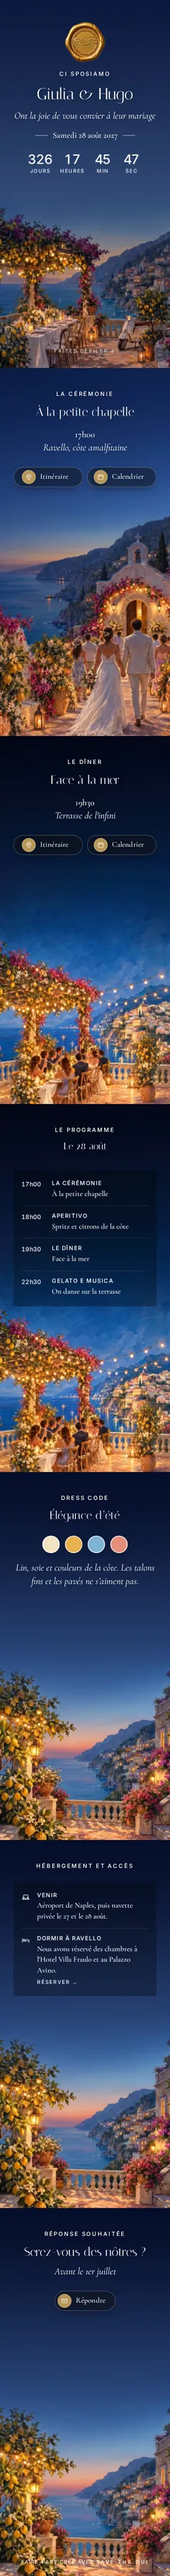
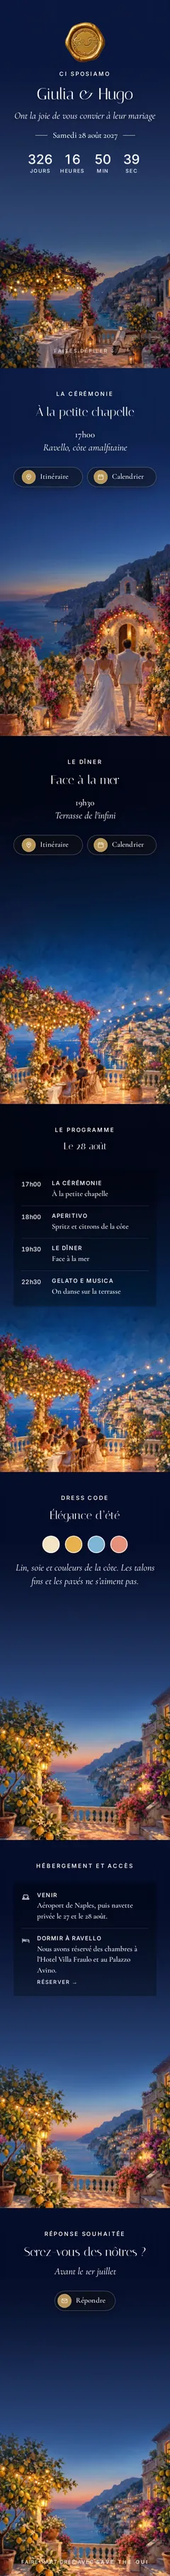
Peintures entières en pleine largeur posées en bas (plus de côtés coupés), trait de jonction supprimé, l'aperçu se pose exactement sur l'événement ; captures à jour
Claude-Session: https://claude.ai/code/session_01RtanwyKP89p6wkEb6pKcCE

diff --git a/business/landing/vitrine.js b/business/landing/vitrine.js
@@ -393,7 +393,11 @@
     if(on('gifts')) o.push(`${giftName().toLowerCase()} (${{liste:'liste chez nous',cagnotte:'cagnotte',lien:'liste ailleurs'}[d.gifts.mode]}) : ${d.gifts.text}${d.gifts.mode==='liste'?' · '+d.gifts.items.filter(x=>x.name).map(x=>x.name+(x.price?' '+x.price+' €':'')).join(', '):d.gifts.url?' '+d.gifts.url:''}`);
     return o.join(' ; '); };
   // l'aperçu descend jusqu'à l'écran modifié
-  function showEv(i){ const el=$('cpScroll').querySelector(`[data-ev="${i}"]`); if(el) $('cpScroll').scrollTo({top:el.offsetTop,behavior:'smooth'}); }
+  // l'aperçu va à l'écran de l'événement et s'y pose exactement : un défilement doux interrompu par un nouveau rendu
+  // s'arrêtait quelques pixels avant, et le « Faites défiler » de l'accueil restait en haut de l'écran
+  let evT=null;
+  function showEv(i){ const sc=$('cpScroll'), el=sc.querySelector(`[data-ev="${i}"]`); if(!el) return; sc.scrollTo({top:el.offsetTop,behavior:'smooth'});
+    clearTimeout(evT); evT=setTimeout(()=>{ const e2=sc.querySelector(`[data-ev="${i}"]`); if(e2&&Math.abs(sc.scrollTop-e2.offsetTop)>1) sc.scrollTo({top:e2.offsetTop,behavior:'smooth'}); },700); }
   const hm=v=>{ const m=/^(\d{1,2}):(\d{2})/.exec(v||''); return m?`${+m[1]}h${m[2]}`:''; };
   const cdHtml=(big,col,extra)=>`<div class="cd${big?' big':''}" style="color:${col};${extra||''}"><div><b data-u="d">0</b><span>jours</span></div><div><b data-u="h">0</b><span>heures</span></div><div><b data-u="m">0</b><span>min</span></div><div><b data-u="s">0</b><span>sec</span></div></div>`;
   function weddingDate(){ const v=$('cDate').value; const d=v?new Date(v+'T15:00:00'):null; return d&&!isNaN(d)?d:new Date('2027-06-12T15:00:00'); }
@@ -418,7 +422,8 @@
       if(cal){ B.style.webkitMaskImage=B.style.maskImage=''; return; }
       B.style.webkitMaskImage=B.style.maskImage='';
       // taille de l'écran, pas du cadre agrandi (sinon zoom ~1,8×) : même calcul que fitBg() dans invite.js
-      const bw=Math.ceil(Math.max(sc.clientWidth,h*.566)), y=Math.round((h-bw/.566)/2);
+      // toute la largeur, posée en bas, le haut rempli par le ciel étiré : comme fitBg() (rien de coupé sur les côtés)
+      const bw=Math.ceil(sc.clientWidth), y=Math.round(h-bw/.566);
       B.style.backgroundSize=bw+'px auto'; B.style.backgroundPosition=`center ${y}px`; B.style.setProperty('--bs',`${bw}px ${Math.round(Math.max(1,y)/.015)}px`); B.style.setProperty('--strip',Math.max(0,y)+'px'); });
     cpFade();
   }

diff --git a/business/site/vitrine.js b/business/site/vitrine.js
@@ -393,7 +393,11 @@
     if(on('gifts')) o.push(`${giftName().toLowerCase()} (${{liste:'liste chez nous',cagnotte:'cagnotte',lien:'liste ailleurs'}[d.gifts.mode]}) : ${d.gifts.text}${d.gifts.mode==='liste'?' · '+d.gifts.items.filter(x=>x.name).map(x=>x.name+(x.price?' '+x.price+' €':'')).join(', '):d.gifts.url?' '+d.gifts.url:''}`);
     return o.join(' ; '); };
   // l'aperçu descend jusqu'à l'écran modifié
-  function showEv(i){ const el=$('cpScroll').querySelector(`[data-ev="${i}"]`); if(el) $('cpScroll').scrollTo({top:el.offsetTop,behavior:'smooth'}); }
+  // l'aperçu va à l'écran de l'événement et s'y pose exactement : un défilement doux interrompu par un nouveau rendu
+  // s'arrêtait quelques pixels avant, et le « Faites défiler » de l'accueil restait en haut de l'écran
+  let evT=null;
+  function showEv(i){ const sc=$('cpScroll'), el=sc.querySelector(`[data-ev="${i}"]`); if(!el) return; sc.scrollTo({top:el.offsetTop,behavior:'smooth'});
+    clearTimeout(evT); evT=setTimeout(()=>{ const e2=sc.querySelector(`[data-ev="${i}"]`); if(e2&&Math.abs(sc.scrollTop-e2.offsetTop)>1) sc.scrollTo({top:e2.offsetTop,behavior:'smooth'}); },700); }
   const hm=v=>{ const m=/^(\d{1,2}):(\d{2})/.exec(v||''); return m?`${+m[1]}h${m[2]}`:''; };
   const cdHtml=(big,col,extra)=>`<div class="cd${big?' big':''}" style="color:${col};${extra||''}"><div><b data-u="d">0</b><span>jours</span></div><div><b data-u="h">0</b><span>heures</span></div><div><b data-u="m">0</b><span>min</span></div><div><b data-u="s">0</b><span>sec</span></div></div>`;
   function weddingDate(){ const v=$('cDate').value; const d=v?new Date(v+'T15:00:00'):null; return d&&!isNaN(d)?d:new Date('2027-06-12T15:00:00'); }
@@ -418,7 +422,8 @@
       if(cal){ B.style.webkitMaskImage=B.style.maskImage=''; return; }
       B.style.webkitMaskImage=B.style.maskImage='';
       // taille de l'écran, pas du cadre agrandi (sinon zoom ~1,8×) : même calcul que fitBg() dans invite.js
-      const bw=Math.ceil(Math.max(sc.clientWidth,h*.566)), y=Math.round((h-bw/.566)/2);
+      // toute la largeur, posée en bas, le haut rempli par le ciel étiré : comme fitBg() (rien de coupé sur les côtés)
+      const bw=Math.ceil(sc.clientWidth), y=Math.round(h-bw/.566);
       B.style.backgroundSize=bw+'px auto'; B.style.backgroundPosition=`center ${y}px`; B.style.setProperty('--bs',`${bw}px ${Math.round(Math.max(1,y)/.015)}px`); B.style.setProperty('--strip',Math.max(0,y)+'px'); });
     cpFade();
   }

diff --git a/business/landing/invite.css b/business/landing/invite.css
@@ -47,7 +47,7 @@ a{color:inherit}
 /* l'image garde la taille de l'écran (fitBg() règle --bs et la position) : la bande de fondu au-dessus d'elle est
    remplie par la toute première bande de l'image (1,5 % de sa hauteur, son ciel) étirée vers le haut, retournée pour que
    la jonction soit exacte. Un miroir de tout le haut faisait un pli sombre (le dégradé du ciel s'inversait). */
-.bg::before{content:'';position:absolute;left:0;right:0;top:0;height:var(--strip,0px);background:var(--img) center top/var(--bs,cover) no-repeat;transform:scaleY(-1)}
+.bg::before{content:'';position:absolute;left:0;right:0;top:0;height:calc(var(--strip,0px) + 2px);background:var(--img) center top/var(--bs,cover) no-repeat;transform:scaleY(-1)} /* +2 px : recouvre l arrondi, sinon un trait fin entre le ciel étiré et l image */
 .bgl.on .bg{transform:scale(1.04)}
 /* calques : le fond calme du thème est peint une fois derrière tout (sur .sc, il ne bouge pas : papier ou ciel uni) ; chaque
    cadre .bgl.cal ne porte que le sujet détouré, posé entier au bas de l'écran (toute la largeur, jamais rogné), sans fondu :

diff --git a/business/site/invite.css b/business/site/invite.css
@@ -47,7 +47,7 @@ a{color:inherit}
 /* l'image garde la taille de l'écran (fitBg() règle --bs et la position) : la bande de fondu au-dessus d'elle est
    remplie par la toute première bande de l'image (1,5 % de sa hauteur, son ciel) étirée vers le haut, retournée pour que
    la jonction soit exacte. Un miroir de tout le haut faisait un pli sombre (le dégradé du ciel s'inversait). */
-.bg::before{content:'';position:absolute;left:0;right:0;top:0;height:var(--strip,0px);background:var(--img) center top/var(--bs,cover) no-repeat;transform:scaleY(-1)}
+.bg::before{content:'';position:absolute;left:0;right:0;top:0;height:calc(var(--strip,0px) + 2px);background:var(--img) center top/var(--bs,cover) no-repeat;transform:scaleY(-1)} /* +2 px : recouvre l arrondi, sinon un trait fin entre le ciel étiré et l image */
 .bgl.on .bg{transform:scale(1.04)}
 /* calques : le fond calme du thème est peint une fois derrière tout (sur .sc, il ne bouge pas : papier ou ciel uni) ; chaque
    cadre .bgl.cal ne porte que le sujet détouré, posé entier au bas de l'écran (toute la largeur, jamais rogné), sans fondu :

diff --git a/business/landing/invite.js b/business/landing/invite.js
@@ -367,8 +367,11 @@
   // taille du décor : celle de l'écran (cover sur l'écran, pas sur le cadre agrandi de la bande de fondu, sinon l'image
   // apparaît zoomée ~1,8×). Image centrée sur l'écran ; au-dessus, sa première bande étirée remplit la bande de fondu.
   const IR=.566; // largeur / hauteur des décors (1080 × 1909)
+  /* la peinture prend toute la largeur de l'écran et se pose en bas : rien n'est coupé sur les côtés (« dans église t'as
+     encore le truc coupé ») ; sur un téléphone plus allongé que 9:16, le haut libre est rempli par le ciel de l'image
+     étiré (::before, --strip). Avant, elle était agrandie à la hauteur de l'écran et perdait ses bords. */
   function fitBg(B,w,h,ov){
-    const bw=Math.ceil(Math.max(w,h*IR)), ih=bw/IR, y=Math.round(ov+(h-ih)/2);
+    const bw=Math.ceil(w), ih=bw/IR, y=Math.round(ov+(h-ih));
     B.style.backgroundSize=bw+'px auto'; B.style.backgroundPosition=`center ${y}px`;
     B.style.setProperty('--bs',`${bw}px ${Math.round(Math.max(1,y)/.015)}px`); B.style.setProperty('--strip',Math.max(0,y)+'px');
   }

diff --git a/business/site/invite.js b/business/site/invite.js
@@ -367,8 +367,11 @@
   // taille du décor : celle de l'écran (cover sur l'écran, pas sur le cadre agrandi de la bande de fondu, sinon l'image
   // apparaît zoomée ~1,8×). Image centrée sur l'écran ; au-dessus, sa première bande étirée remplit la bande de fondu.
   const IR=.566; // largeur / hauteur des décors (1080 × 1909)
+  /* la peinture prend toute la largeur de l'écran et se pose en bas : rien n'est coupé sur les côtés (« dans église t'as
+     encore le truc coupé ») ; sur un téléphone plus allongé que 9:16, le haut libre est rempli par le ciel de l'image
+     étiré (::before, --strip). Avant, elle était agrandie à la hauteur de l'écran et perdait ses bords. */
   function fitBg(B,w,h,ov){
-    const bw=Math.ceil(Math.max(w,h*IR)), ih=bw/IR, y=Math.round(ov+(h-ih)/2);
+    const bw=Math.ceil(w), ih=bw/IR, y=Math.round(ov+(h-ih));
     B.style.backgroundSize=bw+'px auto'; B.style.backgroundPosition=`center ${y}px`;
     B.style.setProperty('--bs',`${bw}px ${Math.round(Math.max(1,y)/.015)}px`); B.style.setProperty('--strip',Math.max(0,y)+'px');
   }

diff --git a/business/landing/vitrine.css b/business/landing/vitrine.css
@@ -370,7 +370,7 @@
   .cp-bg.cal i{background:none}
   .cp-bg.cal i::before{display:none}
   .cp-bg i .sub{position:absolute;left:0;bottom:0;width:100%;height:auto;max-height:100%;object-fit:contain;object-position:center bottom;pointer-events:none;display:block}
-  .cp-bg i::before{content:'';position:absolute;left:0;right:0;top:0;height:var(--strip,0px);background:var(--img) center top/var(--bs,cover) no-repeat;transform:scaleY(-1)}
+  .cp-bg i::before{content:'';position:absolute;left:0;right:0;top:0;height:calc(var(--strip,0px) + 2px);background:var(--img) center top/var(--bs,cover) no-repeat;transform:scaleY(-1)} /* +2 px : recouvre l arrondi, sinon un trait fin entre le ciel étiré et l image */
   .cp-phone .pv-scroll{position:absolute;inset:0;z-index:1}
   .cp-phone .pv-sc{padding-top:14%;background:none;will-change:opacity,transform;z-index:1;border-top:0} /* sans la bordure des sections de la vitrine : elle traçait une ligne entre deux écrans */
   .cp-phone .pv-sc .nm{margin:14px 0 10px}

diff --git a/business/site/vitrine.css b/business/site/vitrine.css
@@ -370,7 +370,7 @@
   .cp-bg.cal i{background:none}
   .cp-bg.cal i::before{display:none}
   .cp-bg i .sub{position:absolute;left:0;bottom:0;width:100%;height:auto;max-height:100%;object-fit:contain;object-position:center bottom;pointer-events:none;display:block}
-  .cp-bg i::before{content:'';position:absolute;left:0;right:0;top:0;height:var(--strip,0px);background:var(--img) center top/var(--bs,cover) no-repeat;transform:scaleY(-1)}
+  .cp-bg i::before{content:'';position:absolute;left:0;right:0;top:0;height:calc(var(--strip,0px) + 2px);background:var(--img) center top/var(--bs,cover) no-repeat;transform:scaleY(-1)} /* +2 px : recouvre l arrondi, sinon un trait fin entre le ciel étiré et l image */
   .cp-phone .pv-scroll{position:absolute;inset:0;z-index:1}
   .cp-phone .pv-sc{padding-top:14%;background:none;will-change:opacity,transform;z-index:1;border-top:0} /* sans la bordure des sections de la vitrine : elle traçait une ligne entre deux écrans */
   .cp-phone .pv-sc .nm{margin:14px 0 10px}

diff --git a/CLAUDE.md b/CLAUDE.md
@@ -299,6 +299,11 @@ faire-part, vitrine, aperçus, images d'aperçu WhatsApp (og.jpg), images géné
     cadre dure un écran de plus). Plus de bande de ciel qui monte avec un bord, ni de trou sombre : « au moment où tu
     défiles, tu vois que c'est pas vraiment continu ». `layoutStrip()` et le fondu dans invite.js, `cpLayout()`/`cpFade()`
     dans vitrine.js ; les calques gardent leur rendu (sujet qui monte).
+    **Les peintures entières prennent toute la largeur et se posent en bas de l'écran** (`fitBg()`, `cpLayout()`) : agrandies
+    à la hauteur d'un téléphone 9:19,5, elles perdaient leurs côtés (« dans église t'as encore le truc coupé, c'est moche »).
+    Le haut libre est rempli par le ciel de l'image étiré (`::before`, recouvrement de 2 px : sinon un trait fin).
+    L'aperçu du configurateur se pose exactement sur l'écran de l'événement (`showEv()` corrige un défilement doux
+    interrompu, qui laissait le « Faites défiler » de l'accueil en haut de l'écran).
     **Lieux de « Plein jour »** : Église (la chapelle) et Jardin (la pergola) seulement ; le dîner comme « Salle » ne
     voulait rien dire. `lieuAlt` remplace un lieu absent (mairie → église, salle et plage → jardin). **À peindre dès que
     Gemini revient** : Mairie, Salle, Plage en plein jour, dans le style des peintures du tableau.
